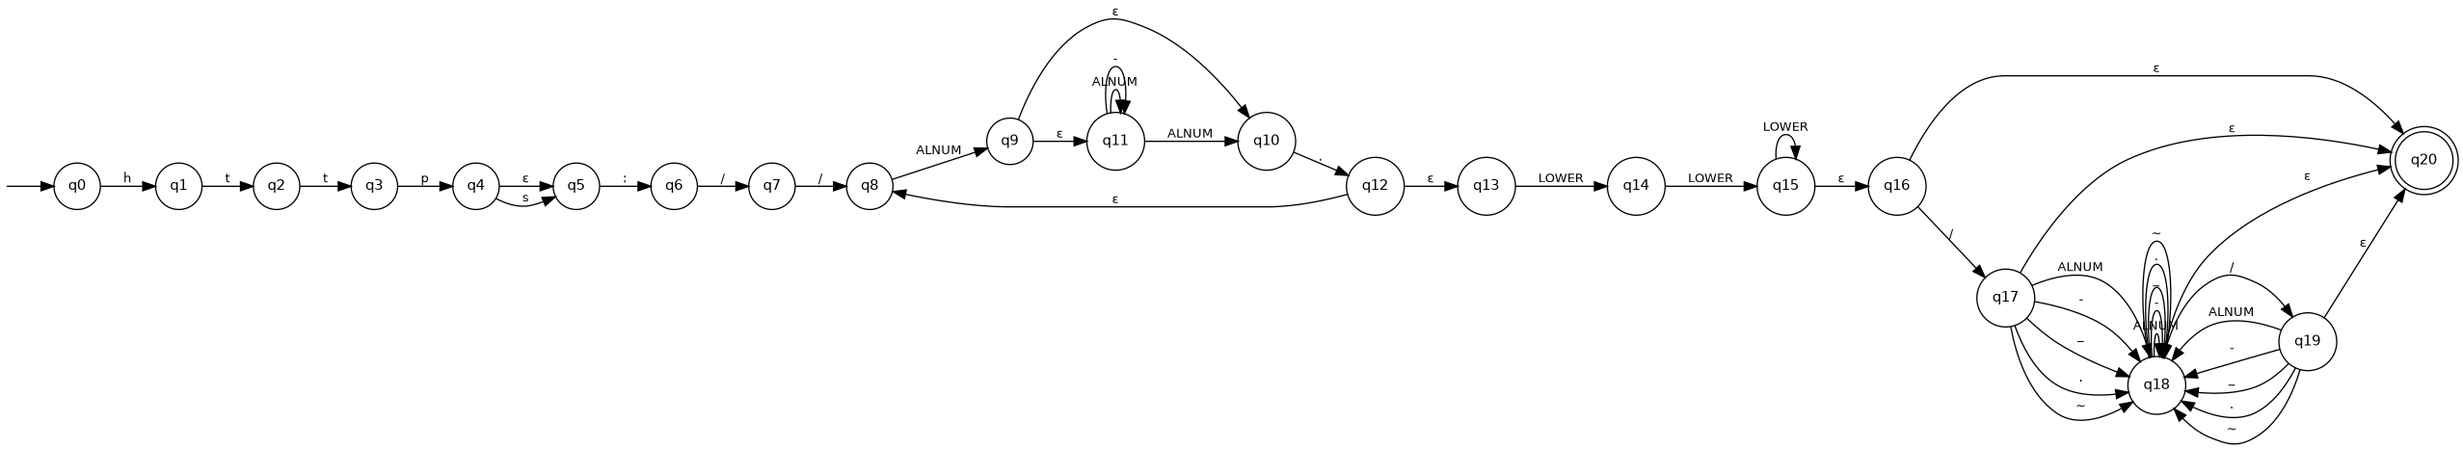
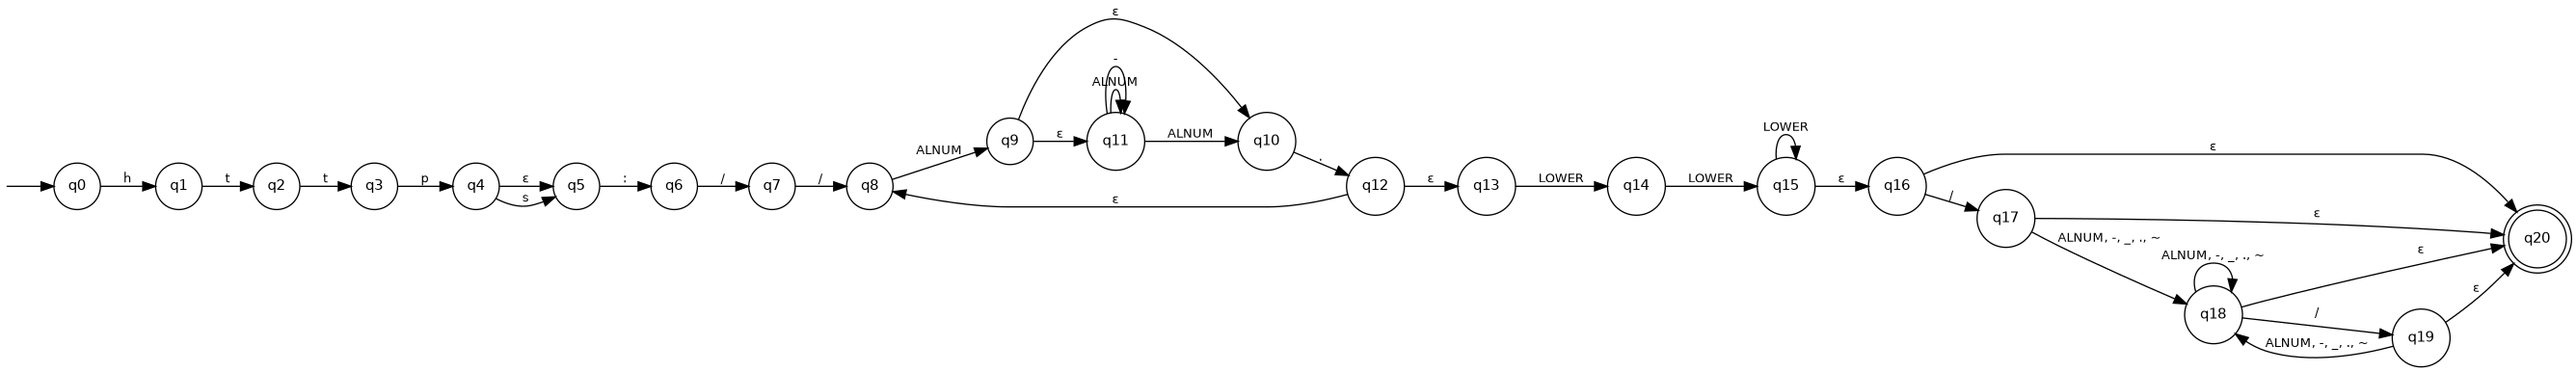
Address review: fix v2 trace, group path labels, flag Punycode scope gap

diff --git a/docs/automata/nfa.md b/docs/automata/nfa.md
@@ -164,7 +164,7 @@ fixture's expected verdict.
 | --- | --- |
 | `https://` | q8 (as in Trace 1) |
 | `v` | q9 |
-| `ε`, `2` (loop), final `ALNUM` | q10 (label `v2` complete) |
+| `ε`, `2` (final `ALNUM`) | q10 (label `v2` complete) |
 | `.` | q12 |
 | `ε` (continue as label) | q8 |
 | `a` | q9 |
@@ -229,8 +229,12 @@ fixture's expected verdict (query is outside the core language).
   this NFA (full results in `regular-expression.md` Section 5); all 20 match
   their expected verdict. The four traces above are a representative subset
   using the fixture's own IDs, as required by the issue.
-- No ambiguity was found in the approved language during this construction.
-  Nothing is recorded as a blocker.
+- Scope note for decision, not a blocker: `LABEL` permits internal hyphens
+  with no restriction on the `xn--` prefix pattern, so an ASCII string such
+  as `xn--fsq.com` matches this RE and NFA as an ordinary hostname (label
+  `xn--fsq`, TLD `com`), even though the language specification currently
+  says Punycode-form hostnames are rejected in the core language. This is
+  not changed here; it is recorded for a scope decision by Ranee/Isaiah.
 - `docs/automata/diagrams/nfa.dot` renders successfully with Graphviz
   (`dot -Tsvg`); rendered evidence is attached alongside this document.
 
